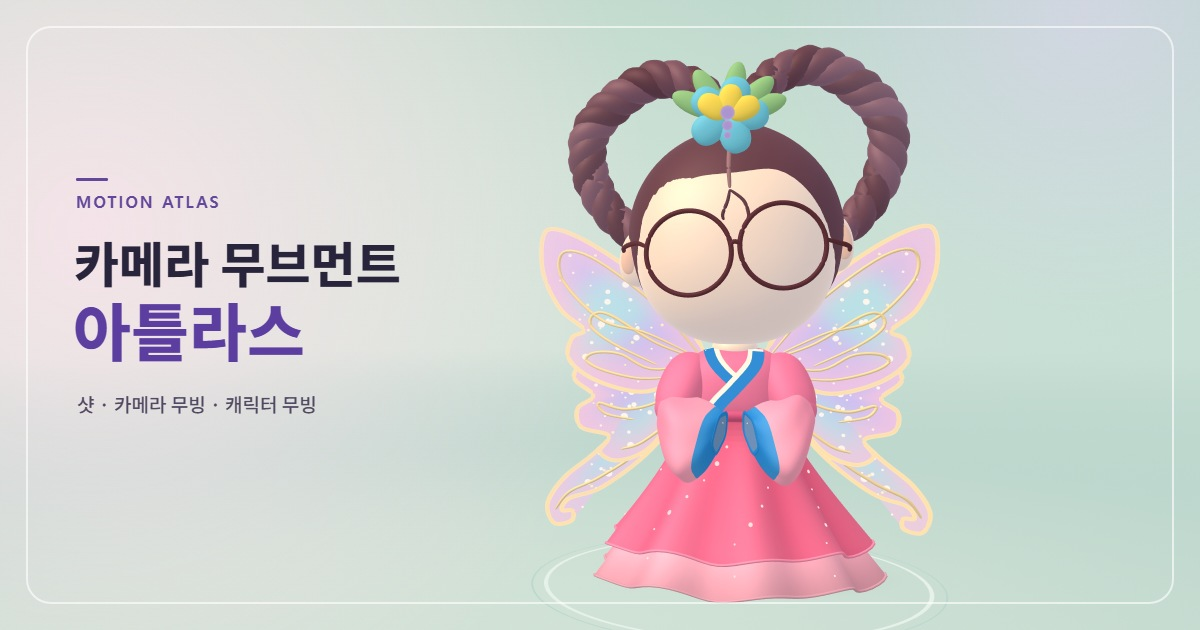
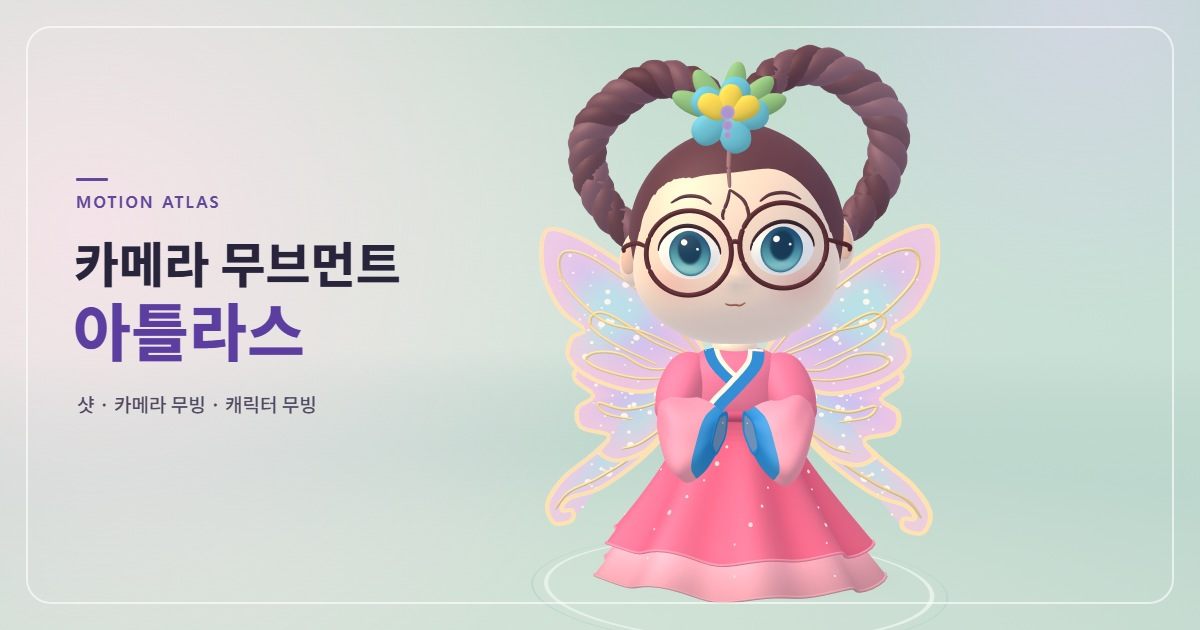
Restore fairy facial features using the latest reference

Changed region(s): [[0.5242, 0.3016, 0.7092, 0.4825], [0.5242, 0.4825, 0.555, 0.5127]]

diff --git a/index.html b/index.html
@@ -12,16 +12,16 @@
   <meta property="og:url" content="https://reyeon.github.io/camera-movement-atlas/">
   <meta property="og:title" content="카메라 무브먼트 아틀라스">
   <meta property="og:description" content="나비 캐릭터로 샷, 카메라 무빙, 캐릭터 동작을 실습하고 영상 프롬프트를 복사하세요.">
-  <meta property="og:image" content="https://reyeon.github.io/camera-movement-atlas/share-butterfly.jpg">
+  <meta property="og:image" content="https://reyeon.github.io/camera-movement-atlas/share-butterfly.jpg?v=face">
   <meta property="og:image:type" content="image/jpeg">
   <meta property="og:image:width" content="1200">
   <meta property="og:image:height" content="630">
-  <meta property="og:image:alt" content="민트색 스튜디오에 선 둥근 안경과 분홍 한복 차림의 나비 캐릭터">
+  <meta property="og:image:alt" content="푸른 눈과 둥근 안경, 분홍 한복 차림의 나비 캐릭터">
   <meta name="twitter:card" content="summary_large_image">
   <meta name="twitter:title" content="카메라 무브먼트 아틀라스">
   <meta name="twitter:description" content="나비 캐릭터와 함께 샷, 카메라 무빙, 캐릭터 동작을 실습하세요.">
-  <meta name="twitter:image" content="https://reyeon.github.io/camera-movement-atlas/share-butterfly.jpg">
-  <meta name="twitter:image:alt" content="민트색 스튜디오에 선 둥근 안경과 분홍 한복 차림의 나비 캐릭터">
+  <meta name="twitter:image" content="https://reyeon.github.io/camera-movement-atlas/share-butterfly.jpg?v=face">
+  <meta name="twitter:image:alt" content="푸른 눈과 둥근 안경, 분홍 한복 차림의 나비 캐릭터">
   <link rel="icon" href="data:,">
   <style>
 :root {
@@ -1120,6 +1120,7 @@ const targets = [
   { id: 'chest', name: '가슴', en: 'Chest', point: [0, 1.47, -.22], bone: 'body', ko: '가슴을 프레이밍의 기준점으로 잡는다.', prompt: 'Frame around the chest.' },
   { id: 'head', name: '머리와 어깨', en: 'Head and shoulders', point: [0, 2.23, -.13], bone: 'body', ko: '머리와 어깨를 프레임에 담는다.', prompt: 'Frame the head and shoulders.' },
   { id: 'face', name: '얼굴', en: 'Face', point: [0, -.038, -.352], bone: 'head', ko: '얼굴 중심을 프레이밍의 기준점으로 잡는다.', prompt: 'Use the center of the face as the framing reference.' },
+  { id: 'eyes', name: '눈', en: 'Eyes', point: [.157, -.046, -.363], bone: 'head', ko: '눈을 가까이 담고 눈동자 표면과 그 안의 반사광에 초점을 맞춘다.', prompt: 'Frame the eyes closely and focus on the irises and their catchlights.' },
   { id: 'ornament', name: '머리 장식', en: 'Hair Ornament', point: [-.028, .456, -.320], bone: 'head', ko: '머리 장식을 가까이 담고 표면과 색에 초점을 맞춘다.', prompt: 'Frame the hair ornament tightly to capture its color and surface detail.' },
   { id: 'glasses', name: '안경테', en: 'Glasses Frame', point: [.246, .079, -.342], bone: 'head', ko: '안경테 가까이에서 테의 곡선과 반사광을 담는다.', prompt: 'Frame the glasses rim close up to capture its curve and highlights.' },
   { id: 'hand', name: '손', en: 'Hand', bone: 'hand', ko: '손을 화면 중앙에 두고 손의 움직임을 가까이 담는다.', prompt: 'Frame the hand near the center to capture its movement up close.' },
@@ -1542,6 +1543,129 @@ function stroke(mesh, points, width, color, samples = 22, closed = false) {
   tube(mesh, path, radii, color, 10);
 }
 
+function faceSection(y) {
+  const lowerFace = smooth((-y - .052) / .208);
+  const height = Math.min(1, Math.abs((y + .018) / .367));
+  const radius = (1 - height ** mix(2 / .90, 2.64, lowerFace)) ** .45;
+  const cheek = Math.exp(-(((y + .166) / .111) ** 2));
+  return {
+    width: .370 * radius * (1 + .052 * cheek),
+    depth: .342 * radius,
+    middle: -.016 + .010 * smooth((-y - .219) / .162),
+  };
+}
+
+function noseRelief(x, y) {
+  const ridge = Math.exp(-((x / .029) ** 2 + ((y + .124) / .049) ** 2));
+  const tip = Math.exp(-((x / .037) ** 2 + ((y + .151) / .025) ** 2));
+  return .010 * ridge + .017 * tip;
+}
+
+function faceFront(x, y) {
+  const { width, depth, middle } = faceSection(y);
+  const section = Math.abs(x) / Math.max(.001, width);
+  return middle - depth * Math.max(0, 1 - section ** (2 / .90)) ** .45 - noseRelief(x, y);
+}
+
+function sculptFace(mesh) {
+  const rows = 52, columns = 84, blush = rgb('f9a89e');
+  const rounded = value => Math.sign(value) * Math.abs(value) ** .90;
+  const surface = Array.from({ length: rows + 1 }, (_, row) => {
+    const latitude = PI * (row / rows - .5);
+    const y = -.018 + .367 * Math.sin(latitude);
+    const { width, depth, middle } = faceSection(y);
+    return Array.from({ length: columns }, (_, i) => {
+      const theta = TAU * i / columns;
+      const x = width * rounded(Math.cos(theta));
+      const front = rounded(Math.sin(theta));
+      const z = middle + depth * front - Math.max(0, -front) * noseRelief(x, y);
+      return [x, y, z];
+    });
+  });
+  const shaded = surface.map((ring, row) => ring.map((point, i) => {
+    const [x, y, z] = point;
+    const around = sub3(ring[(i + 1) % columns], ring[(i + columns - 1) % columns]);
+    const vertical = sub3(surface[Math.min(rows, row + 1)][i], surface[Math.max(0, row - 1)][i]);
+    const normal = row === 0 || row === rows ? [0, row === 0 ? -1 : 1, 0] : normalized(cross3(vertical, around));
+    const cheek = Math.exp(-(((Math.abs(x) - .228) / .100) ** 2 + ((y + .158) / .067) ** 2));
+    const tone = mix3(skin, blush, .43 * cheek * smooth((-z - .15) / .16));
+    return { point, normal, tone };
+  }));
+  const triangle = (a, b, c) => mesh.tri(a.point, b.point, c.point, [a.tone, b.tone, c.tone], VINYL, 1, [a.normal, b.normal, c.normal]);
+  for (let row = 0; row < rows; row++) {
+    for (let i = 0; i < columns; i++) {
+      const next = (i + 1) % columns;
+      const [a, b, c, d] = [shaded[row][i], shaded[row + 1][i], shaded[row + 1][next], shaded[row][next]];
+      if (row > 0) triangle(a, b, d);
+      if (row < rows - 1) triangle(d, b, c);
+    }
+  }
+}
+
+function eyeSurface(side, u, v, raised = 0) {
+  const x = side * (.160 + .109 * u);
+  const y = -.049 + side * .006 + .008 * u + .092 * v * (1 - .10 * u * u);
+  const dome = .024 * Math.max(0, 1 - u * u - v * v) ** 1.4;
+  return [x, y, faceFront(x, y) - .0038 - dome - raised];
+}
+
+function eyeDisc(mesh, surface, shade, material = VINYL, rings = 16, sides = 56) {
+  const points = Array.from({ length: rings + 1 }, (_, ring) => Array.from({ length: sides }, (_, i) => {
+    const angle = TAU * i / sides, radius = ring / rings;
+    const u = radius * Math.cos(angle), v = radius * Math.sin(angle);
+    const dx = sub3(surface(u + .001, v), surface(u - .001, v));
+    const dy = sub3(surface(u, v + .001), surface(u, v - .001));
+    const normal = normalized(cross3(dy, dx));
+    return { point: surface(u, v), tone: shade(u, v, radius), normal: normal[2] < 0 ? normal : mult3(normal, -1) };
+  }));
+  const triangle = (a, b, c) => mesh.tri(a.point, b.point, c.point, [a.tone, b.tone, c.tone], material, 1, [a.normal, b.normal, c.normal]);
+  for (let ring = 1; ring <= rings; ring++) {
+    for (let i = 0; i < sides; i++) {
+      const j = (i + 1) % sides;
+      const [a, b, c, d] = [points[ring - 1][i], points[ring][i], points[ring][j], points[ring - 1][j]];
+      triangle(a, b, c);
+      if (ring > 1) triangle(a, c, d);
+    }
+  }
+}
+
+function faceLine(mesh, points, width, color, samples = 24) {
+  const line = sampleCurve(points, samples).map(([x, y]) => [x, y, faceFront(x, y) - .0014]);
+  const radii = line.map((_, i) => width * (.25 + .75 * Math.sin(PI * i / samples) ** .44));
+  tube(mesh, line, radii, color, 8);
+}
+
+function faceFeatures(mesh) {
+  const white = rgb('fff8ef'), shadow = rgb('e4c9c5'), lash = rgb('3e2834');
+  const deepBlue = rgb('225479'), seaGlass = rgb('71c4c3'), reflection = rgb('b5e4d8'), pupil = rgb('193a55');
+  for (const side of [-1, 1]) {
+    eyeDisc(mesh, (u, v) => eyeSurface(side, u, v), (_, v) => mix3(white, shadow, .49 * smooth((v - .26) / .64)));
+    const iris = (u, v, raise = 0) => eyeSurface(side, -.030 + u * .666, -.040 + v * .847, .0016 + raise);
+    eyeDisc(mesh, iris, (u, v, radius) => {
+      const water = mix3(seaGlass, deepBlue, smooth((v + .76) / 1.57));
+      const shine = Math.exp(-(((v + .69) / .200) ** 2 + (u / .79) ** 2));
+      const color = mix3(water, reflection, .66 * shine);
+      const shape = Math.hypot(u / .60, (v - .175) / .70);
+      const tintedPupil = mix3(color, pupil, .94 * (1 - smooth((shape - .80) / .28)));
+      return mix3(tintedPupil, deepBlue, .70 * smooth((radius - .87) / .13));
+    });
+    const catchlight = (u, v, radius, color) => eyeDisc(mesh,
+      (x, y) => iris(u + x * radius, v + y * radius * .91, .0020), () => color, FLAT, 3, 22);
+    catchlight(-side * .26, .47, .157, white);
+    catchlight(side * .38, .20, .068, rgb('e8f6f2'));
+
+    const lid = Array.from({ length: 35 }, (_, i) => {
+      const angle = PI * i / 34;
+      return eyeSurface(side, Math.cos(angle), Math.sin(angle), .0017);
+    });
+    tube(mesh, lid, lid.map((_, i) => .0018 + .0054 * Math.sin(PI * i / 34) ** .70), lash, 9);
+    const brow = [[.082, .114], [.113, .137], [.151, .146], [.188, .143], [.225, .125]]
+      .map(([x, y]) => [side * x, y + side * .004]);
+    faceLine(mesh, brow, .0064, hairColor);
+  }
+  faceLine(mesh, [[-.036, -.232], [-.019, -.237], [0, -.236], [.016, -.238], [.035, -.228]], .0036, rgb('aa655a'));
+}
+
 function hairCap(mesh) {
   const segments = 72, rings = 27;
   const geometry = Array.from({ length: rings + 1 }, (_, row) => Array.from({ length: segments }, (_, i) => {
@@ -1795,7 +1919,7 @@ function buildFigure() {
   skirtLayer(skirt, 1.218, .058, .263, .833, silkPink, rgb('ffb7c5'));
   skirtLayer(skirt, 1.246, .289, .287, .762, rgb('ec5c80'), rgb('fa8daa'));
 
-  ellipsoid(head, [0, -.018, -.016], [.370, .367, .342], skin, { round: .90, steps: 70, rings: 42, material: VINYL });
+  sculptFace(head);
   for (const side of [-1, 1]) {
     sculpt(head, [side * .351, -.034 + side * .026, .001], [.079, .111, .069], skin, .92, rotationZ(side * .19));
     sculpt(head, [side * .384, -.030 + side * .026, -.053], [.035, .069, .017], rgb('f7c5aa'), 1, rotationZ(side * .19));
@@ -1807,6 +1931,7 @@ function buildFigure() {
     stroke(head, [[-.02, .161, -.330], [sign * .027, .122, -.346], [sign * .044, .075, -.353],
       [sign * .038, .052, -.346]], .006, hairColor, 16);
   }
+  faceFeatures(head);
   glasses(head);
   flowerPin(head);
 
